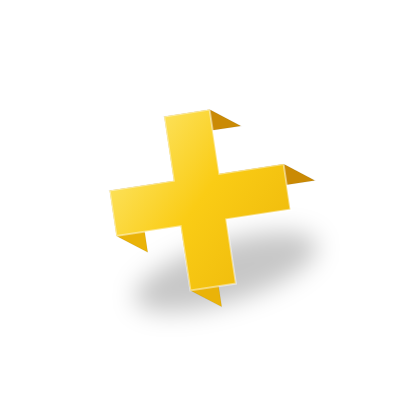
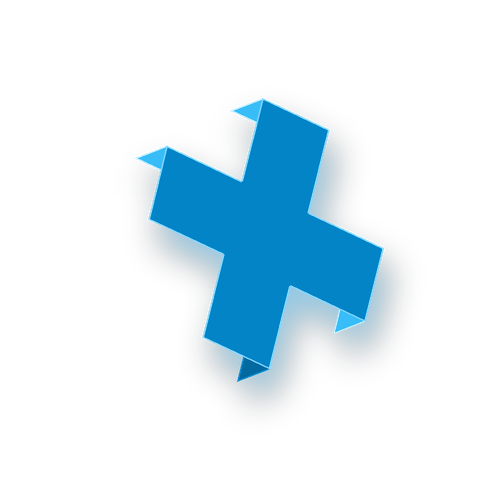
feat: actualizar icono 3d cruz a azul con volumen completo y redactar mision

Changed region(s): [[0.27, 0.18, 0.81, 0.81]]

diff --git a/index.html b/index.html
@@ -72,7 +72,7 @@
   <link href="https://fonts.googleapis.com/css2?family=Nunito:wght@700;800;900&family=Plus+Jakarta+Sans:wght@400;500;600;700;800;900&display=swap" rel="stylesheet">
   
   <!-- Hojas de Estilo: Principal con titulo reconocible por el navegador y soporte para estilos alternativos -->
-  <link rel="stylesheet" href="src/css/styles.css?v=20261113c" title="EternoDev Oscuro">
+  <link rel="stylesheet" href="src/css/styles.css?v=20261113d" title="EternoDev Oscuro">
 
 </head>
 <body>
@@ -1253,11 +1253,11 @@
         <section id="aboutWe" class="crazy-we">
           <!-- Floating 3D Objects a lo largo del scroll con parallax -->
           <div class="crazy-path-container">
-            <img src="src/img/about/float_plus.png" 
+            <img src="src/img/about/float_plus.svg?v=20261113d" 
                  class="crazy-path-img anim-drift-1 parallax-scroll" 
                  data-speed="0.28"
                  style="left: -60px; top: -60px; width: 440px; max-width: 36vw;" 
-                 alt="3D Floating Plus" title="Archivo reemplazable: src/img/about/float_plus.png">
+                 alt="3D Floating Plus" title="Archivo reemplazable: src/img/about/float_plus.svg">
 
             <img src="src/img/about/float_heart.png" 
                  class="crazy-path-img anim-drift-2 parallax-scroll" 
@@ -1315,7 +1315,7 @@
           <div style="position: relative; z-index: 3; max-width: 860px; margin: 0 auto;">
             <h2 class="c-title">EN UNA<br><span>MISIÓN</span></h2>
             <p class="c-text">
-              El navegador y los motores de desarrollo son más potentes que nunca. Como desarrollador independiente, mi misión es desbloquear el máximo potencial de cada idea, creando videojuegos memorables y herramientas prácticas para creadores y jugadores de todo el mundo.
+              Mi objetivo es desarrollar videojuegos indie y hacer crecer mi comunidad para convertirme en una referencia a nivel nacional e internacional, y conseguir crear un juego muy famoso. Mi sueño en realidad es sacar un juego muy chulo, tener un gran éxito con él y después poder seguir sacando juegos sin tener que preocuparme de nada más: ser millonario y hacer un juego donde haya un pollo de goma.
             </p>
           </div>
         </section>
@@ -1554,6 +1554,6 @@
     </div>
   </div>
 
-  <script src="src/js/script.js?v=20261113c"></script>
+  <script src="src/js/script.js?v=20261113d"></script>
 </body>
 </html>

diff --git a/404.html b/404.html
@@ -34,7 +34,7 @@
   <link rel="preconnect" href="https://fonts.googleapis.com">
   <link rel="preconnect" href="https://fonts.gstatic.com" crossorigin>
   <link href="https://fonts.googleapis.com/css2?family=Plus+Jakarta+Sans:wght@500;700;800;900&display=swap" rel="stylesheet">
-  <link rel="stylesheet" href="src/css/styles.css?v=20261113c">
+  <link rel="stylesheet" href="src/css/styles.css?v=20261113d">
 </head>
 <body class="page-404">
   <div class="error-code">404</div>

diff --git a/tools/generate_float_plus.py b/tools/generate_float_plus.py
@@ -1,0 +1,139 @@
+import math
+from PIL import Image, ImageDraw, ImageFilter
+
+width, height = 500, 500
+cx, cy = 250, 240
+
+w = 82
+arm = 92
+d = 60
+
+a = w / 2
+b = arm + w / 2
+
+pts2d = [
+    (-a, b),   # 0
+    (a, b),    # 1
+    (a, a),    # 2
+    (b, a),    # 3
+    (b, -a),   # 4
+    (a, -a),   # 5
+    (a, -b),   # 6
+    (-a, -b),  # 7
+    (-a, -a),  # 8
+    (-b, -a),  # 9
+    (-b, a),   # 10
+    (-a, a)    # 11
+]
+
+rot_x = math.radians(-22)
+rot_y = math.radians(28)
+rot_z = math.radians(-14)
+
+def rotate(v):
+    x, y, z = v
+    x1 = x * math.cos(rot_y) + z * math.sin(rot_y)
+    y1 = y
+    z1 = -x * math.sin(rot_y) + z * math.cos(rot_y)
+    x2 = x1
+    y2 = y1 * math.cos(rot_x) - z1 * math.sin(rot_x)
+    z2 = y1 * math.sin(rot_x) + z1 * math.cos(rot_x)
+    x3 = x2 * math.cos(rot_z) - y2 * math.sin(rot_z)
+    y3 = x2 * math.sin(rot_z) + y2 * math.cos(rot_z)
+    z3 = z2
+    return [round(cx + x3, 2), round(cy - y3, 2), round(z3, 2)]
+
+verts = []
+for x, y in pts2d:
+    verts.append(rotate([x, y, d/2]))
+for x, y in pts2d:
+    verts.append(rotate([x, y, -d/2]))
+
+faces = []
+faces.append({'name': 'front', 'indices': list(range(12)), 'type': 'front'})
+for i in range(12):
+    nxt = (i + 1) % 12
+    faces.append({'name': f'side_{i}', 'indices': [i, nxt, nxt+12, i+12], 'type': 'side', 'idx': i})
+
+visible = []
+for f in faces:
+    pts = [verts[k] for k in f['indices']]
+    area = 0.0
+    for j in range(len(pts)):
+        k = (j + 1) % len(pts)
+        area += pts[j][0] * pts[k][1] - pts[k][0] * pts[j][1]
+    if area > 0:
+        avg_z = sum(p[2] for p in pts) / len(pts)
+        visible.append((f['name'], pts, avg_z, f['type'], f.get('idx', None)))
+
+visible.sort(key=lambda x: x[2])
+
+color_map = {
+    'side_0': '#38BDF8',
+    'side_2': '#38BDF8',
+    'side_3': '#38BDF8',
+    'side_10': '#38BDF8',
+    'side_1': '#0369A1',
+    'side_5': '#0369A1',
+    'front': '#0284C7'
+}
+
+# 1. Generate SVG
+svg_lines = [
+    '<svg xmlns="http://www.w3.org/2000/svg" viewBox="0 0 500 500" width="500" height="500" fill="none">',
+    '  <defs>',
+    '    <filter id="dropShadow" x="-20%" y="-20%" width="150%" height="150%">',
+    '      <feDropShadow dx="8" dy="22" stdDeviation="16" flood-color="rgba(2, 132, 199, 0.45)"/>',
+    '    </filter>',
+    '  </defs>',
+    '  <g filter="url(#dropShadow)">'
+]
+
+for name, pts, avg_z, f_type, idx in visible:
+    pts_str = ' '.join(f'{p[0]},{p[1]}' for p in pts)
+    fill = color_map.get(name, '#0284C7')
+    stroke = '#BAE6FD' if name in ['side_0', 'side_2', 'side_3', 'side_10'] else ('#7DD3FC' if name == 'front' else '#0284C7')
+    stroke_w = '1.8' if name == 'front' else '1.2'
+    svg_lines.append(f'    <polygon points="{pts_str}" fill="{fill}" stroke="{stroke}" stroke-width="{stroke_w}" stroke-linejoin="round"/>')
+
+svg_lines.append('  </g>')
+svg_lines.append('</svg>')
+
+svg_content = '\n'.join(svg_lines)
+with open('src/img/about/float_plus.svg', 'w', encoding='utf-8') as f:
+    f.write(svg_content)
+print('Generated src/img/about/float_plus.svg')
+
+# 2. Generate PNG with Pillow at 2x Supersampling
+scale = 2
+img = Image.new('RGBA', (width * scale, height * scale), (0, 0, 0, 0))
+
+# Create shadow layer
+shadow = Image.new('RGBA', (width * scale, height * scale), (0, 0, 0, 0))
+sdraw = ImageDraw.Draw(shadow)
+for name, pts, avg_z, f_type, idx in visible:
+    s_pts = [(p[0] * scale + 16, p[1] * scale + 44) for p in pts]
+    sdraw.polygon(s_pts, fill=(2, 132, 199, 110))
+shadow = shadow.filter(ImageFilter.GaussianBlur(radius=32))
+img.alpha_composite(shadow)
+
+draw = ImageDraw.Draw(img)
+
+def hex_to_rgb(h):
+    h = h.lstrip('#')
+    return tuple(int(h[i:i+2], 16) for i in (0, 2, 4))
+
+for name, pts, avg_z, f_type, idx in visible:
+    p_pts = [(p[0] * scale, p[1] * scale) for p in pts]
+    fill_hex = color_map.get(name, '#0284C7')
+    stroke_hex = '#BAE6FD' if name in ['side_0', 'side_2', 'side_3', 'side_10'] else ('#7DD3FC' if name == 'front' else '#0284C7')
+    
+    fill_rgb = hex_to_rgb(fill_hex) + (255,)
+    stroke_rgb = hex_to_rgb(stroke_hex) + (255,)
+    
+    draw.polygon(p_pts, fill=fill_rgb, outline=stroke_rgb, width=max(2, int(scale * 1.5)))
+
+# Resample to crisp 500x500
+out = img.resize((width, height), Image.Resampling.LANCZOS)
+out.save('src/img/about/float_plus.png', 'PNG')
+print('Generated src/img/about/float_plus.png')
